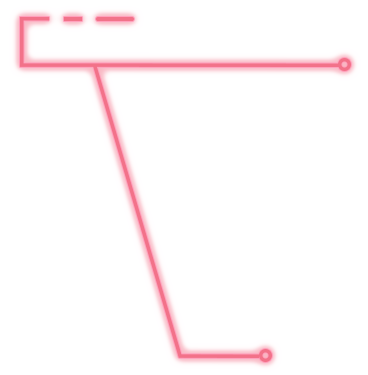
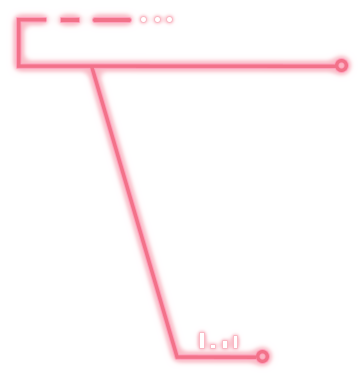
index

diff --git a/style.css b/style.css
@@ -728,12 +728,49 @@ span.basic-bg:hover {
 }
 .organization {
     position: relative;
+    width: 100%;
+    height: 0;
+}
+
+.dots5 {
+    background: #f27289;
+    width: 9px;
+    height: 9px;
+    position: relative;
+    top: 68px;
+    left: 25px;
+    box-shadow: 0 0 20px 0 #f27289;
+}
+
+.dots6 {
+    background: #f27289;
+    width: 9px;
+    height: 9px;
+    position: relative;
+    top: 91px;
+    left: 25px;
+    box-shadow: 0 0 20px 0 #f27289;
+}
+
+.dots7 {
+    background: #f27289;
+    width: 9px;
+    height: 9px;
+    position: relative;
+    top: 111px;
+    left: 25px;
+    box-shadow: 0 0 20px 0 #f27289;
 }
 
 .organization img{
     position: relative;
     margin-left: 8rem;
     bottom: 5rem;
+}
+
+.comet-green{
+    position: absolute;
+    right: 0;
 }
 .txt-organization {
     position: relative;
@@ -759,13 +796,14 @@ span.basic-bg:hover {
     background: linear-gradient(135deg, rgba(255,255,255,0.1), rgba(255, 255, 255, 0));
     border: 1px solid rgba(255,255,255,0.18);
     box-shadow: 0 5px 20px 0 rgb(0 0 0 / 37%);
+    backdrop-filter: blur(1.5px);
 }
 
 .glass-desc h3 {
     font-weight: 300;
     font-family: 'Josefin Sans', sans-serif;
     font-size: 25px;
-    margin: 23px 0 14px 25px;
+    margin: -7px 0 14px 25px;
     color: #fff;
 }
 
@@ -784,4 +822,121 @@ span.basic-bg:hover {
     font-size: 25px;
     margin: 14px 0 14px 25px;
     color: #fff;
+}
+
+.glass-shodou {
+    width: 57rem;
+    height: 19rem;
+    position: relative;
+    bottom: 20rem;
+    margin-left: 24rem;
+    border-radius: 24px;
+    background: linear-gradient(135deg, rgba(255,255,255,0.1), rgba(255, 255, 255, 0));
+    border: 1px solid rgba(255,255,255,0.18);
+    box-shadow: 0 5px 20px 0 rgb(0 0 0 / 37%);
+    backdrop-filter: blur(1.5px);
+}
+
+.dots8 {
+    background: #f27289;
+    width: 9px;
+    height: 9px;
+    position: relative;
+    top: 87px;
+    left: 25px;
+    box-shadow: 0 0 20px 0 #f27289;
+}
+
+.dots9 {
+    background: #f27289;
+    width: 9px;
+    height: 9px;
+    position: relative;
+    top: 109px;
+    left: 25px;
+    box-shadow: 0 0 20px 0 #f27289;
+}
+
+.dots10 {
+    background: #f27289;
+    width: 9px;
+    height: 9px;
+    position: relative;
+    top: 130px;
+    left: 25px;
+    box-shadow: 0 0 20px 0 #f27289;
+}
+
+.dots11 {
+    background: #f27289;
+    width: 9px;
+    height: 9px;
+    position: relative;
+    top: 150px;
+    left: 25px;
+    box-shadow: 0 0 20px 0 #f27289;
+}
+
+.dots12 {
+    background: #f27289;
+    width: 9px;
+    height: 9px;
+    position: relative;
+    top: 171px;
+    left: 25px;
+    box-shadow: 0 0 20px 0 #f27289;
+}
+
+.glass-shodou h3{
+    font-weight: 300;
+    font-family: 'Josefin Sans', sans-serif;
+    font-size: 25px;
+    margin: -7px 0 14px 25px;
+    color: #fff;
+    
+}
+
+.glass-shodou p{
+    font-weight: 300;
+    font-family: 'Josefin Sans', sans-serif;
+    font-size: 20px;
+    margin: 0 0 11px 45px;
+    line-height: 1.5;
+    color: #f2e963;
+}
+
+.glass-shodou span{
+    font-weight: 300;
+    font-family: 'Josefin Sans', sans-serif;
+    font-size: 25px;
+    position: relative;
+    left: 18px;
+    color: #fff;
+}
+
+#skill-page{
+    width: 100%;
+    margin: 43rem 0 0;
+    position: relative;
+}
+
+.text-skill h2{
+    position: relative;
+    
+    letter-spacing: 2px;
+    text-align: center;
+    font-size: 30px;
+    text-transform: uppercase;
+    color: #ffffff;
+    stroke: 1px solid #d90b42;
+    text-shadow: 1px 1px 10px #d90b42;
+}
+
+.starry{
+    background: url(/pict/star.png) no-repeat center top;
+    height: 63rem;
+    width: 100%;
+    position: absolute;
+    top: 0;
+    left: 0;
 }

diff --git a/index.html b/index.html
@@ -158,7 +158,7 @@
             <div class="ozora">
                 <img src="/pict/exp-ornament.png">
                 <div class="txt-year">
-                    <h2>2022-2013</h2>
+                    <h2>2022-2023</h2>
                 </div>
                 <div class="desc-ozora">
                     <h3>Internship Program</h3>
@@ -171,12 +171,18 @@
                     </div>
                 </div>
             </div>
+            <div class="comet-green">
+                <img src="/pict/green-comet.png">
+            </div>
             <div class="organization">
                 <img src="/pict/organize-ornament.png">
                 <div class="txt-organization">
                     <h2>organization...</h2>
                 </div>
                 <div class="glass-desc">
+                    <div class="dots5"></div>
+                    <div class="dots6"></div>
+                    <div class="dots7"></div>
                     <h3>Documentation Division</h3>
                     <p>CHISHIKI (July 2022)<br>
                     Mental Health Webinar<br>
@@ -184,8 +190,29 @@
                     <span>Responsible for create
                         video promotion and activities on social media</span>
                 </div>
+                <div class="glass-shodou">
+                    <div class="dots8"></div>
+                    <div class="dots9"></div>
+                    <div class="dots10"></div>
+                    <div class="dots11"></div>
+                    <div class="dots12"></div>
+                        <h3>Speaker Shodou Club</h3>
+                        <p>KURABU SHOUKAI (October 2021)<br>
+                            JAKARTA EDUCATION & TECHNO EXPO FESTIVAL<br>
+                            CAMPUS PRO (December 2021)<br>
+                            LIGAS (April 2022)<br>
+                            DeltaMas Matsuri Japan Fair</p>
+                        <span>Introducing Shodo club to all participant<br>Become jury at the event</span>
+                </div>
             </div>
         </div>
+    </div>
+
+    <div id="skill-page">
+        <div class="text-skill">
+            <h2>Skill</h2>
+        </div>
+        <div class="starry"></div>
     </div>
 </body>
 
